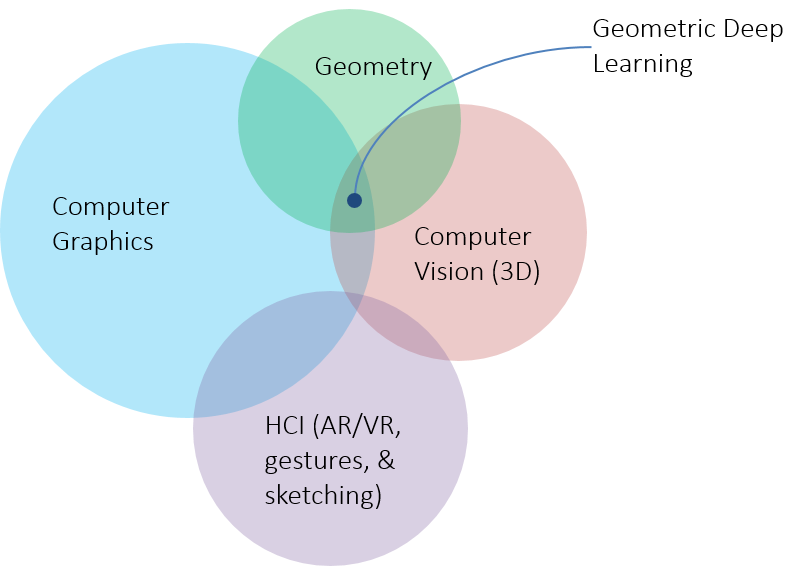
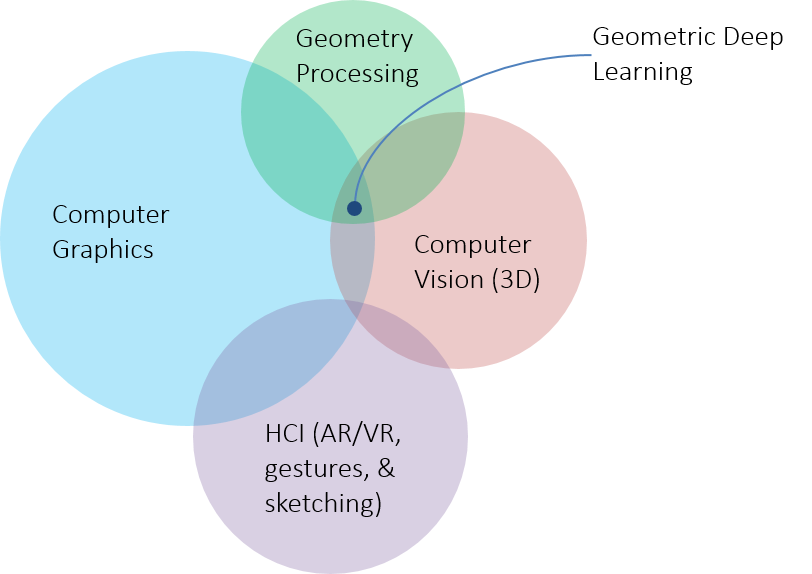
index updated

diff --git a/index.html b/index.html
@@ -148,8 +148,11 @@
 												<!--li><span>Building intelligent systems that can generate human-like language (human language or programming language) and realistic imagery (2D image and 3D scene)
 												<u style="color:#555555">[Natural Language Processing, Computer Vision]</u></span></li-->
 												
+												<li><span>Modelling and analyzing 3D shapes for high-performance computer-aided design and manufacturing
+												<u style="color:#555555">[Intersection of Computer Graphics and Geometry Processing]</u></span></li>
+																								
 												<li><span>Improving how computers see and interpret the 3D world from 2D images
-												<u style="color:#555555">[Intersection of Computer Vision, Computer Graphics and Geometry Processing]</u></span></li>
+												<u style="color:#555555">[Intersection of Computer Vision, Computer Graphics and Geometric Deep Learning]</u></span></li>
 												
 												<li><span>Creating intelligent systems that improve visual communication between humans and between humans & computers
 												<u style="color:#555555">[Computer Graphics, Computer Vision and Human-Computer Interaction]</u></span></li>
